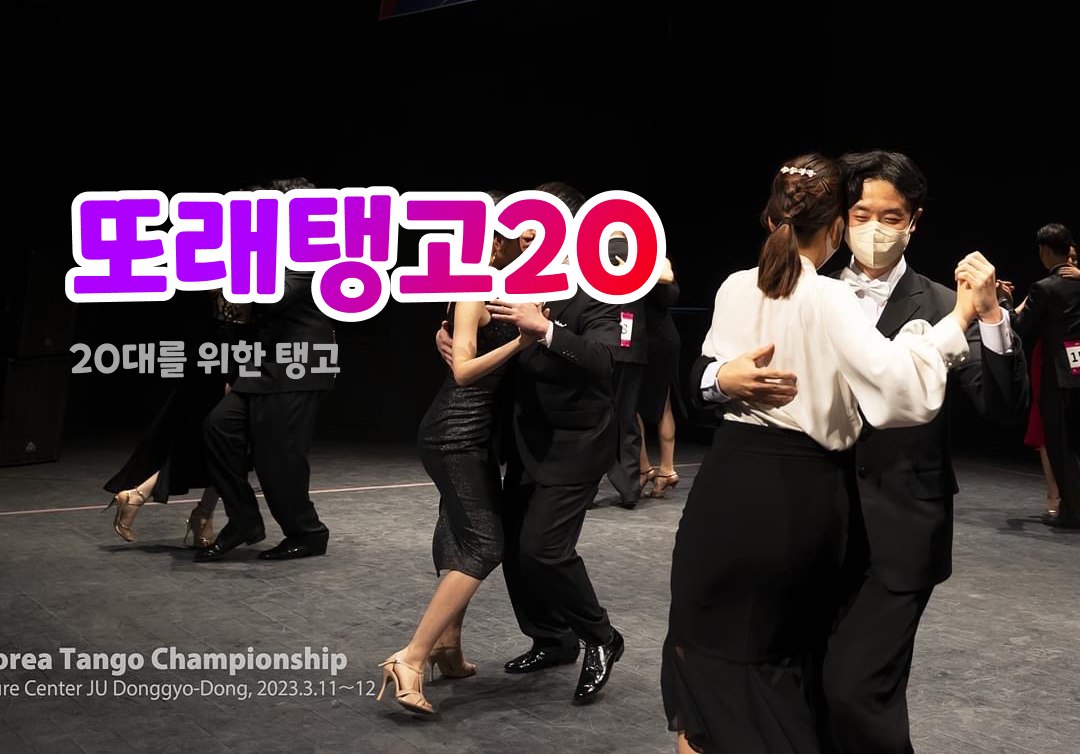
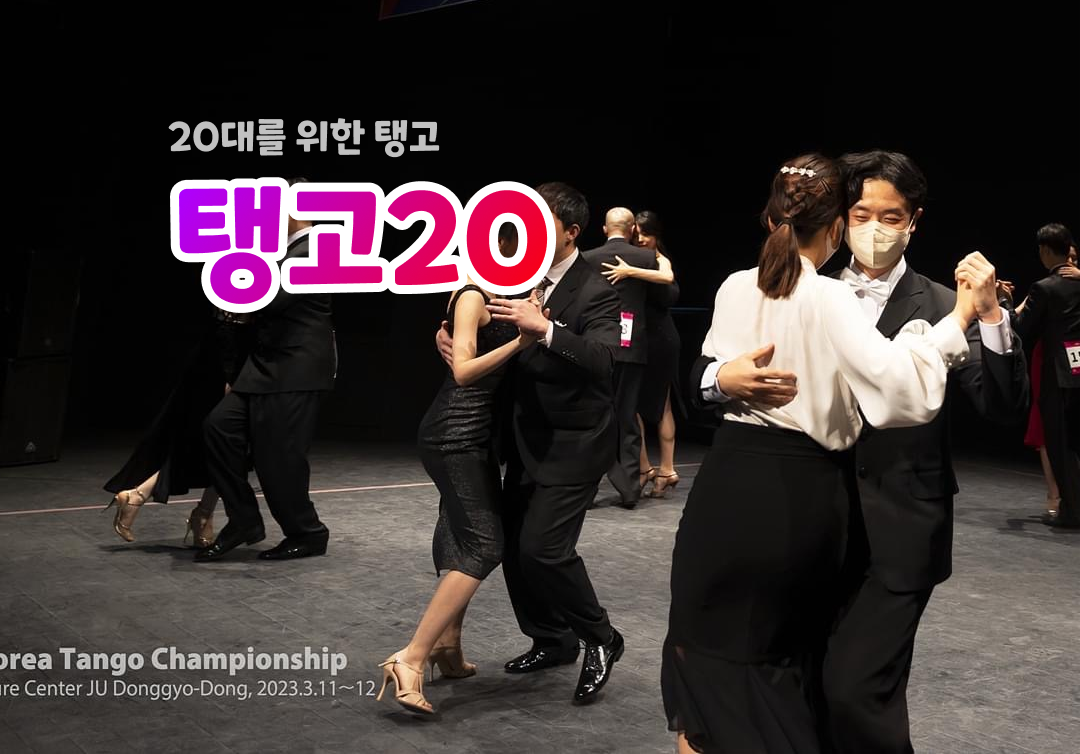
프로그램 가격 수정

Changed region(s): [[0.0611, 0.1525, 0.6417, 0.4271], [0.0611, 0.4271, 0.3361, 0.5186]]

diff --git a/index.html b/index.html
@@ -82,13 +82,20 @@
             <li class="class-li">
               <div class="class-card-box">
                 <img src="images/ddore-20.png" alt="또래탱고">
-                <h4>또래탱고20</h4>
+                <h4>탱고20</h4>
                 <p class="box-desc">20대를 위한 탱고</p>
-                <p class="class-card-box-time">월요일 19:00 ~ 21:00</p>
-                <p class="class-card-box-time">수요일 19:00 ~ 21:00</p>
+                <p class="class-card-box-time">월요일 20:00 ~ 21:30</p>
                 <p class="class-card-box-time">일요일 14:40 ~ 16:40</p>
               </div>
-
+            </li>
+            <li class="class-li">
+              <div class="class-card-box">
+                <img src="images/2030-tango.png" alt="2030탱고">
+                <h4>탱고2030</h4>
+                <p class="box-desc">20, 30대를 위한 탱고</p>
+                <p class="class-card-box-time">화요일 20:00 ~ 21:30</p>
+                <p class="class-card-box-time">금요일 20:00 ~ 21:30</p>
+              </div>
             </li>
             <li class="class-li">
               <div class="class-card-box">
@@ -99,15 +106,7 @@
               </div>
 
             </li>
-            <li class="class-li">
-              <div class="class-card-box">
-                <img src="images/2030-tango.png" alt="2030탱고">
-                <h4>탱고2030</h4>
-                <p class="box-desc">20, 30대를 위한 탱고</p>
-                <p class="class-card-box-time">금요일 20:00 ~ 21:30</p>
-              </div>
-
-            </li>
+            
           </ul>
 
           <!-- <ul class="class-list">
@@ -160,23 +159,17 @@
               <li>
                 <div class="cost-card">
                   <h4>월 4회</h4>
-                  <span class="cost-card-cost">60,000원</span>
+                  <span class="cost-card-cost">30,000원(대학생 15,000원)</span>
                 </div>
               </li>
               <li>
                 <div class="cost-card">
                   <h4>월 8회</h4>
-                  <span class="cost-card-cost">100,000원</span>
-                </div>
-              </li>
-              <li>
-                <div class="cost-card">
-                  <h4>월 12회</h4>
-                  <span class="cost-card-cost">120,000원</span>
+                  <span class="cost-card-cost">40,000원(대학생 20,000원)</span>
                 </div>
               </li>
             </ul>
-            <p class="warning-text">* 첫 강습일 후 1달간 유효하며 이월되지 않습니다.</p>
+            <p class="warning-text">* 첫 강습일 후 2달간 유효하며 이월되지 않습니다.</p>
             <p class="warning-text">* 타인에게 일부/전부 양도 가능합니다. </p>
           </div>
           <!-- <div class="event-box">
